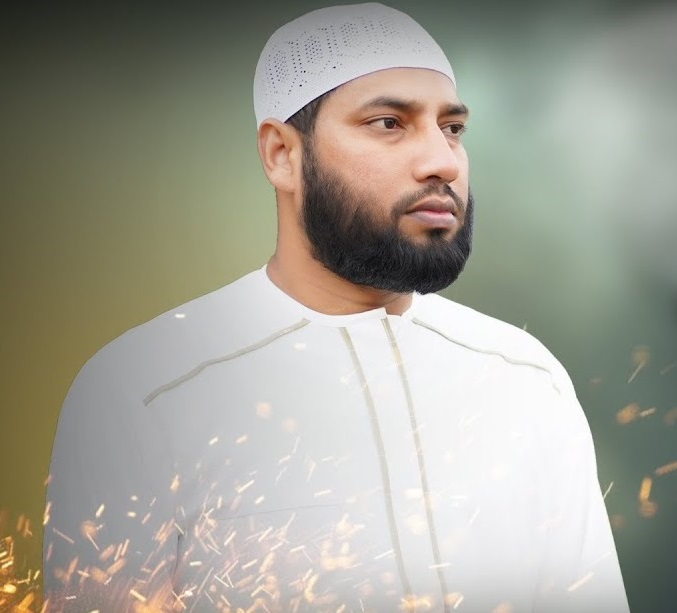
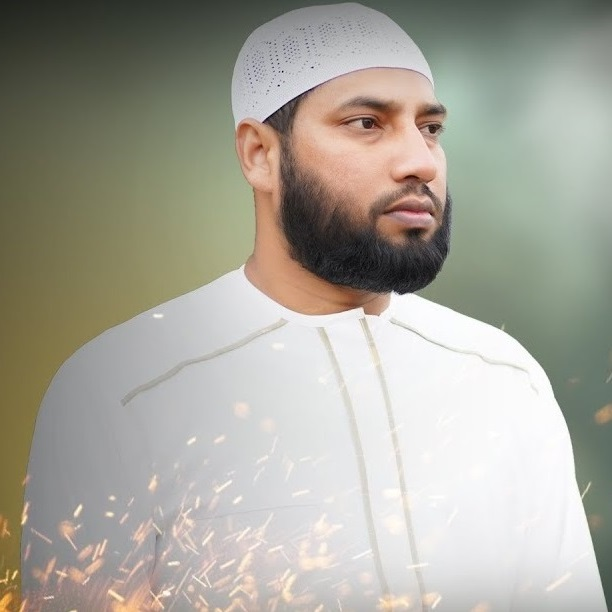
add shamil - typhoon img

diff --git a/playlists.html b/playlists.html
@@ -141,7 +141,15 @@ Although you can use them, for a more unique website, replace these images with 
                 <a href="players/ke-elo-madinay.html" class="btn btn-primary btn-lg">কে এলো মদীনায় (এক ফাইলে)</a> 								
             </div>
         </div> 	</br> 	</br>
-		<!-- END of CATEGORY -->	
+		<!-- END of CATEGORY -->
+	<h2 class="section-heading">ফজলুল হক শামিল</h2>
+		<img style="border-radius: 50%;" src="images/singer/shamil.png" height=140px>	</br> 	</br> 	</br> 
+        <div class="header-content">
+            <div class="header-content-inner">
+                <a href="players/prothom-fota-ful.html" class="btn btn-primary btn-lg">প্রথম ফোটা ফুল</a>  								
+            </div>
+        </div> 	</br> 	</br>
+		<!-- END of CATEGORY -->		
 				<h2 class="section-heading">নওশাদ মাহফুজ</h2>
 		<img style="border-radius: 50%;" src="images/singer/nawshad.jpg" height=140px>	</br> 	</br> 	</br> 
         <div class="header-content">
@@ -211,6 +219,15 @@ Although you can use them, for a more unique website, replace these images with 
             </div>
         </div> 	</br> 	</br> 
 				<!-- END of CATEGORY --> 
+									<!--Start a CATEGORY -->
+				<h2 class="section-heading">টাইফুন শিল্পী গোষ্ঠী</h2>
+		<img style="border-radius: 50%;" src="images/band/typhoon.jpg" height=140px>	</br> 	</br> 	</br> 
+        <div class="header-content">
+            <div class="header-content-inner">
+                <a href="players/pran-khunje-pai.html" class="btn btn-primary btn-lg">প্রাণ খুঁজে পাই</a> 
+            </div>
+        </div> 	</br> 	</br> 
+				<!-- END of CATEGORY -->				
  				<h2 class="section-heading">পরিবেশনায়</h2>
 		<img src="images/alomoy.png" height=140px> 
 	</br> </br> 
